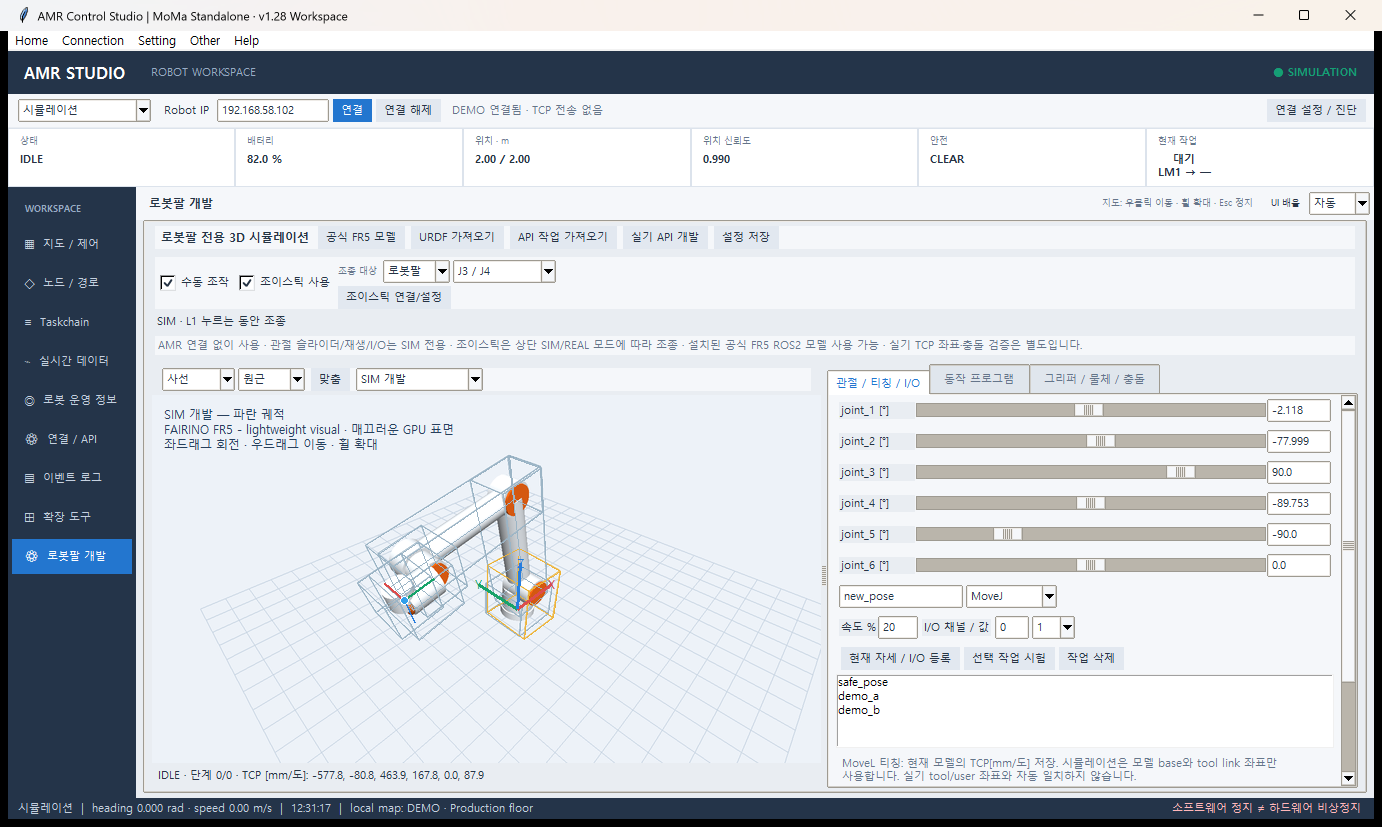
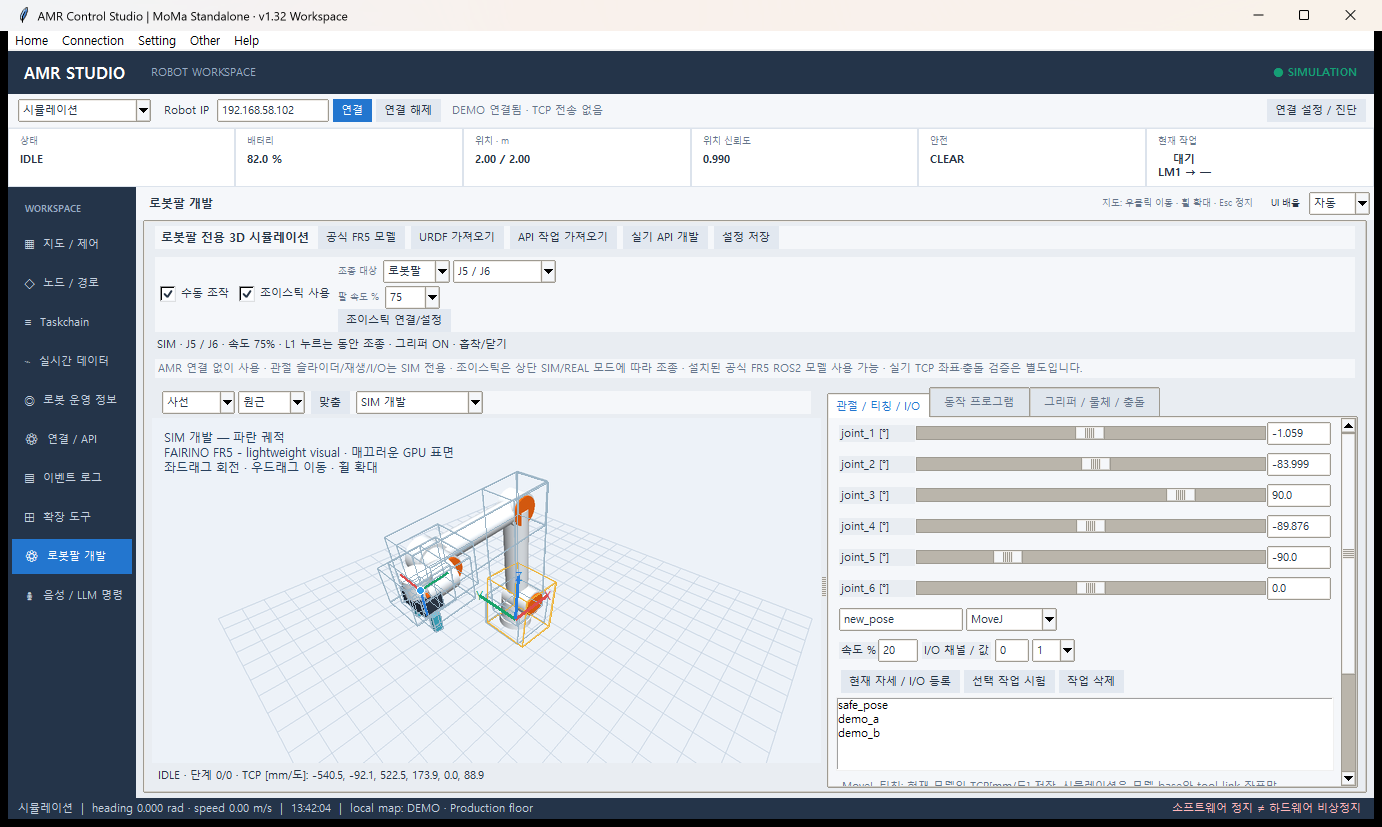
Add arm gamepad mode cycling speed buttons and registered gripper IO control

diff --git a/seer_control/gamepad_ui.py b/seer_control/gamepad_ui.py
@@ -7,7 +7,7 @@ import tkinter as tk
 from tkinter import ttk
 from .gamepad import WindowsPad,PadGate,AXES
 from .manual_safety import controller_manual_reason
-from .arm_gamepad import GROUPS,sim_jog,sdk_pulse
+from .arm_gamepad import GROUPS,sim_jog,sdk_pulse,BUTTONS,SPEEDS,ButtonEdges,step_group,step_speed
 from .theme import PANEL,MUTED,INK,BLUE
 
 
@@ -17,6 +17,7 @@ class GamepadMixin:
         self.pad_enabled=tk.BooleanVar(value=False)
         self.pad_config=dict(forward='Y',turn='X',deadman=4,stop=2,zone=.15,invert_forward=True,invert_turn=True)
         self.pad_sample=None;self.pad_arm_active=False;self.pad_arm_active_real=False;self.pad_arm_time=None
+        self.pad_arm_speed=tk.IntVar(value=50);self.pad_arm_edges=ButtonEdges();self.pad_arm_buttons=dict(BUTTONS);self.pad_grip_on=False;self.pad_tool_message=''
         self.pad_target=tk.StringVar(value='AMR');self.pad_arm_group=tk.StringVar(value='J1 / J2');self.pad_arm_real=tk.BooleanVar(value=False)
         tk.Checkbutton(body,text='DualSense 조이스틱 사용 (CFI-ZCT1G)',variable=self.pad_enabled,bg=PANEL,command=self._pad_toggle).pack(anchor='w',pady=(8,0))
         self._pad_mode_controls(body)
@@ -24,7 +25,7 @@ class GamepadMixin:
         self.pad_status.pack(fill='x',pady=3)
         row=tk.Frame(body,bg=PANEL);row.pack(fill='x')
         self.button(row,'컨트롤러 검색 / 설정',self._pad_dialog,BLUE).pack(side='left',fill='x',expand=True)
-        self.label(body,'L1: 누르는 동안 조종 · ○: 정지\nAMR: 전후진/회전 · 팔: 선택한 두 축 조절\n팔 SIM: 12°/s · TCP 30mm/s, 10°/s',8,MUTED,justify='left',wraplength=285).pack(fill='x',pady=4)
+        self.label(body,'L1: 누르는 동안 조종 · ○: 정지\nAMR: 전후진/회전 · 팔: 선택한 두 축 조절\n팔 R1/R2: 모드 ± · R3/L3: 속도 ±\n△: 그리퍼 ON/OFF (L1 함께 누름)',8,MUTED,justify='left',wraplength=285).pack(fill='x',pady=4)
 
     def _pad_mode_controls(self,body):
         row=tk.Frame(body,bg=PANEL);row.pack(fill='x',pady=3)
@@ -33,6 +34,9 @@ class GamepadMixin:
         target.bind('<<ComboboxSelected>>',lambda e:self._pad_toggle())
         group=ttk.Combobox(row,textvariable=self.pad_arm_group,values=list(GROUPS),state='readonly',width=13);group.pack(side='left')
         group.bind('<<ComboboxSelected>>',lambda e:self._pad_toggle())
+        speedrow=tk.Frame(body,bg=PANEL);speedrow.pack(fill='x')
+        self.label(speedrow,'팔 속도 %',8,MUTED).pack(side='left')
+        speed=ttk.Combobox(speedrow,textvariable=self.pad_arm_speed,values=SPEEDS,state='readonly',width=5);speed.pack(side='left',padx=4);speed.bind('<<ComboboxSelected>>',lambda e:self._pad_toggle())
 
     def _pad_arm_stop(self):
         self.pad_arm_time=None
@@ -53,7 +57,17 @@ class GamepadMixin:
             feedback=self.fr5_feedback;cfg=self.studio_config.get('arm',{});amr=self.current_state();speed=amr.get('speed')
             allowed=allowed and self.pad_arm_real.get() and self.connected and self.control_enabled and self.fr5_client.connected and cfg.get('verified') is True and cfg.get('version_confirmed') is True and bool(cfg.get('controller_version')) and now-self.fr5_rx<=2 and not controller_manual_reason(self.live,self.last_state,now) and type(speed) in (int,float) and math.isfinite(speed) and abs(speed)<.01 and feedback.get('status') not in ('ERROR','RUNNING','PAUSED') and not feedback.get('emergency') and not any(feedback.get('safety_stop',[])) and not any(feedback.get('errors',[]))
         else:allowed=allowed and self.sim_powered and not self.sim.route and not self.sim.state.stopped and self.sim.state.motor and self.arm_dev_sim.state not in ('RUNNING','PAUSED')
-        try:v,w,stop,status=self.pad_gate.evaluate(sample,now,allowed,**self.pad_config)
+        if not hasattr(self,'pad_arm_edges'):self.pad_arm_edges=ButtonEdges()
+        edges=self.pad_arm_edges.update(sample,now,allowed)
+        bindings=getattr(self,'pad_arm_buttons',BUTTONS)
+        stop_pressed=bool(sample and sample.buttons&(1<<self.pad_config['stop']))
+        changed=False
+        if not stop_pressed:
+            for up,down,current,step,var in [('mode_up','mode_down',self.pad_arm_group.get(),step_group,self.pad_arm_group),('speed_up','speed_down',self.pad_arm_speed.get() if hasattr(self,'pad_arm_speed') else 100,step_speed,getattr(self,'pad_arm_speed',None))]:
+                delta=int(bool(edges&(1<<bindings[up])))-int(bool(edges&(1<<bindings[down])))
+                if delta and var is not None:var.set(step(current,delta));changed=True
+        if changed:self._pad_arm_stop();self.pad_gate.reset()
+        try:v,w,stop,status=self.pad_gate.evaluate(sample,now,allowed,**{k:self.pad_config[k] for k in ('forward','turn','deadman','stop','zone','invert_forward','invert_turn')})
         except (ValueError,TypeError):self.pad_gate.reset();v=w=0.;stop=False;status='팔 조이스틱 입력 오류'
         if self.pad_enabled.get() and sample and 0<=now-sample.timestamp<=.25 and focus is not None and focus.winfo_toplevel()==self:
             stop=stop or bool(sample.buttons&(1<<self.pad_config['stop']))
@@ -61,6 +75,10 @@ class GamepadMixin:
             self.pad_enabled.set(False);self._pad_stop();self.action('stop')
             if self.real:self._fr5_priority_stop()
             else:self.arm_dev_sim.stop();self._aw_sync_main()
+        elif edges&(1<<bindings['gripper']) and allowed and self.pad_gate.armed and sample.buttons&(1<<self.pad_config['deadman']) and not v and not w and not changed:
+            self._pad_arm_stop()
+            try:self._pad_arm_gripper(now);status=self.pad_tool_message
+            except (ValueError,TypeError) as e:status=str(e)
         elif not v and not w:self._pad_arm_stop()
         else:
             try:
@@ -69,27 +87,53 @@ class GamepadMixin:
                     if hasattr(self,'arm_dev_display') and self.arm_dev_display.get()=='SIM 개발':self.arm_dev_display.set('실기 자세')
                     if not self.fr5_pending and feedback.get('motion_done')==1:
                         self.studio_arm_safe=False
-                        pulse=sdk_pulse(self.pad_arm_group.get(),v,w,now);cfg=copy.deepcopy(self.studio_config['arm'])
+                        pulse=sdk_pulse(self.pad_arm_group.get(),v,w,now,(self.pad_arm_speed.get() if hasattr(self,'pad_arm_speed') else 100)/100);cfg=copy.deepcopy(self.studio_config['arm'])
                         self._fr5_queue(lambda:self._arm_call(cfg,'jog',pulse));self.pad_arm_active=True;self.pad_arm_active_real=True
                     status='FR5 단일 축 제한 JOG · '+self.pad_arm_group.get()
                 else:
                     dt=.05 if self.pad_arm_time is None else min(.1,max(0,now-self.pad_arm_time))
-                    sim_jog(self.arm_dev_sim,self.pad_arm_group.get(),v,w,dt)
+                    scale=(self.pad_arm_speed.get() if hasattr(self,'pad_arm_speed') else 100)/100
+                    sim_jog(self.arm_dev_sim,self.pad_arm_group.get(),v,w,dt,12*scale,30*scale,10*scale)
                     self.pad_arm_time=now;self.pad_arm_active=True;self.pad_arm_active_real=False;self._aw_sync_main();self.arm_dev_canvas.render()
                     status='팔 SIM 조종 · '+self.pad_arm_group.get()
             except (ValueError,TypeError) as e:self._pad_arm_stop();self.pad_gate.reset();status=str(e)
         if not allowed and not stop:status='팔 조종 대기 · 수동/SIM 정지/팔 재생/실기 허용·수신 상태 확인'
+        status=self.pad_arm_group.get()+f" · 속도 {self.pad_arm_speed.get() if hasattr(self,'pad_arm_speed') else 100}% · "+status
+        if getattr(self,'pad_tool_message',''):status+=' · '+self.pad_tool_message
         identity=self.pad_device[1].name if self.pad_device else '미연결'
         raw=' · '.join(f'{k} {value:+.2f}' for k,value in sample.axes.items()) if sample else ''
         self.pad_status.configure(text=f'{identity} · {status}\n{raw}')
         if hasattr(self,'pad_arm_feedback'):self.pad_arm_feedback.set(('REAL · ' if self.real else 'SIM · ')+status)
         if getattr(self,'pad_input_label',None) and self.pad_input_label.winfo_exists():self.pad_input_label.configure(text=self.pad_status.cget('text'))
 
+    def _pad_arm_gripper(self,now):
+        if self.held:raise ValueError('AMR 수동 조작 해제 후 그리퍼를 조종하세요.')
+        if self.real:
+            if self.fr5_pending or self.fr5_feedback.get('motion_done')!=1:raise ValueError('FR5 정지 및 응답 대기')
+            value=not self.pad_grip_on;cfg=copy.deepcopy(self.studio_config['arm'])
+            key='gripper_on' if value else 'gripper_off';name=self.studio_config.get('gamepad',{}).get(key,'')
+            spec=cfg.get('operations',{}).get(name,{})
+            if spec.get('method') not in ('SetDO','SetToolDO') or spec.get('status')!=int(value):raise ValueError('컨트롤러 설정에서 REAL 그리퍼 ON/OFF 등록 I/O 작업을 지정하세요.')
+            other=self.studio_config.get('gamepad',{}).get('gripper_off' if value else 'gripper_on','');pair=cfg.get('operations',{}).get(other,{})
+            if pair.get('method')!=spec['method'] or pair.get('id')!=spec.get('id') or pair.get('status')!=int(not value):raise ValueError('REAL 그리퍼 ON/OFF는 같은 출력 채널의 반대 신호로 등록하세요.')
+            payload=dict(operation=name,expires=now+.15)
+            self._fr5_queue(lambda:self._arm_call(cfg,'pad_io',payload));self.pad_grip_on=value
+            self.pad_tool_message='그리퍼 '+('ON' if value else 'OFF')+' 요청 · 파지 확인은 DI 필요'
+        else:
+            c=self.arm_dev_sim.physics.config
+            if c['kind']=='none':raise ValueError('로봇팔 그리퍼 / 물체 / 충돌에서 도구를 먼저 선택하세요.')
+            value=not bool(self.arm_dev_sim.io[c['do_bank']].get(c['do_channel'],0))
+            self._aps_io(int(value));self._aw_sync_main();self.arm_dev_canvas.render()
+            self.pad_tool_message=('진공' if c['kind']=='vacuum' else '그리퍼')+(' ON · 흡착/닫기' if value else ' OFF · 해제/열기')
+
     def _pad_start(self):
         devices=self.pad_backend.devices()
         sony=[device for device in devices if (device[1].manufacturer,device[1].product)==(0x054c,0x0ce6)]
         if len(sony)==1:self.pad_device=sony[0]
         saved=self.studio_config.get('gamepad',{})
+        for key in BUTTONS:
+            value=saved.get('arm_'+key)
+            if type(value) is int and 0<=value<32:self.pad_arm_buttons[key]=value
         if isinstance(saved,dict):
             for k in self.pad_config:
                 value=saved.get(k)
@@ -100,6 +144,7 @@ class GamepadMixin:
         self.pad_after=self.after(50,self._pad_poll)
 
     def _pad_toggle(self):
+        self.pad_arm_edges=ButtonEdges()
         self._pad_stop();self.release_drive();self.pad_gate.reset()
 
     def _pad_stop(self):
@@ -125,7 +170,7 @@ class GamepadMixin:
                  self.tabs.select()==str(self.operation_page) and focus is not None and focus.winfo_toplevel()==self and
                  not self.reloc_mode and not self.task_running and not self.studio_runner.active and self.studio_arm_safe)
         allowed=allowed and (not self.real and self.sim_powered or self.real and self.control_enabled and now-self.last_state<=3 and not controller_manual_reason(self.live,self.last_state,now))
-        try:v,w,stop,status=self.pad_gate.evaluate(sample,now,allowed,**self.pad_config)
+        try:v,w,stop,status=self.pad_gate.evaluate(sample,now,allowed,**{k:self.pad_config[k] for k in ('forward','turn','deadman','stop','zone','invert_forward','invert_turn')})
         except (ValueError,TypeError):
             self.pad_gate.reset();v,w,stop,status=0.,0.,False,'컨트롤러 입력 오류'
         if self.pad_enabled.get() and sample and 0<=now-sample.timestamp<=.25 and focus is not None and focus.winfo_toplevel()==self:
@@ -161,34 +206,54 @@ class GamepadMixin:
 
     def _pad_dialog(self):
         self._pad_stop();self.pad_gate.reset()
-        win=tk.Toplevel(self);win.title('DualSense CFI-ZCT1G · 입력 / 설정');self._fit_dialog(win,720,550,620,460);win.configure(bg=PANEL)
+        win=tk.Toplevel(self);win.title('DualSense CFI-ZCT1G · 입력 / 설정');self._fit_dialog(win,760,740,620,460);win.configure(bg=PANEL)
+        holder,inner,_=self._scrollable_frame(win,bg=PANEL);holder.pack(fill='both',expand=True)
         devices=self.pad_backend.devices()
         names=[f'{index}: {caps.name} · VID {caps.manufacturer:04X} / PID {caps.product:04X}' for index,caps in devices]
         selected=tk.StringVar(value=names[0] if names else '')
-        self.label(win,'USB 또는 Bluetooth로 연결한 뒤 장치를 선택하세요.',11,INK,True).pack(anchor='w',padx=12,pady=10)
-        ttk.Combobox(win,textvariable=selected,values=names,state='readonly',width=70).pack(fill='x',padx=12)
+        self.label(inner,'USB 또는 Bluetooth로 연결한 뒤 장치를 선택하세요.',11,INK,True).pack(anchor='w',padx=12,pady=10)
+        ttk.Combobox(inner,textvariable=selected,values=names,state='readonly',width=70).pack(fill='x',padx=12)
         def choose():
             self._pad_stop();self.pad_gate.reset();self.pad_enabled.set(False)
             self.pad_device=devices[names.index(selected.get())] if selected.get() in names else None
-        self.button(win,'선택한 컨트롤러 연결',choose,BLUE).pack(anchor='w',padx=12,pady=5)
-        self.pad_input_label=self.label(win,'장치 선택 후 스틱/버튼의 입력 번호를 확인하세요.',9,MUTED,justify='left');self.pad_input_label.pack(fill='x',padx=12,pady=5)
+        self.button(inner,'선택한 컨트롤러 연결',choose,BLUE).pack(anchor='w',padx=12,pady=5)
+        self.pad_input_label=self.label(inner,'장치 선택 후 스틱/버튼의 입력 번호를 확인하세요.',9,MUTED,justify='left');self.pad_input_label.pack(fill='x',padx=12,pady=5)
         variables={}
+        self.label(inner,'팔: R1 다음 모드 / R2 이전 모드 · R3 속도↑ / L3 속도↓ · △ 그리퍼',9,INK).pack(anchor='w',padx=12)
+        button_vars={}
+        for key,title in [('mode_up','모드 다음 R1'),('mode_down','모드 이전 R2'),('speed_up','속도 증가 R3'),('speed_down','속도 감소 L3'),('gripper','그리퍼 토글')]:
+            row=tk.Frame(inner,bg=PANEL);row.pack(fill='x',padx=12,pady=2)
+            self.label(row,title,9,INK,width=25,anchor='w').pack(side='left')
+            button_vars[key]=tk.IntVar(value=self.pad_arm_buttons[key]+1)
+            ttk.Combobox(row,textvariable=button_vars[key],values=tuple(range(1,33)),state='readonly',width=8).pack(side='left')
+        self.label(inner,'그리퍼: 기본 △=4번 / ×=2번 / □=1번. 장치 입력 번호 확인 후 변경 가능',8,MUTED).pack(anchor='w',padx=12)
+        tool_vars={}
+        operations=self.studio_config.get('arm',{}).get('operations',{})
+        for key,status in [('gripper_on',1),('gripper_off',0)]:
+            row=tk.Frame(inner,bg=PANEL);row.pack(fill='x',padx=12,pady=2);self.label(row,'REAL '+key,9,INK,width=25,anchor='w').pack(side='left')
+            tool_vars[key]=tk.StringVar(value=self.studio_config.get('gamepad',{}).get(key,''))
+            names=['']+[n for n,spec in operations.items() if spec.get('method') in ('SetDO','SetToolDO') and spec.get('status')==status]
+            ttk.Combobox(row,textvariable=tool_vars[key],values=names,state='readonly',width=25).pack(side='left')
         for key,title,values in (('forward','전후진 축',AXES),('turn','회전 축',AXES),('deadman','주행 허용 L1 버튼 번호',tuple(range(1,33))),('stop','정지 ○ 버튼 번호',tuple(range(1,33)))):
-            row=tk.Frame(win,bg=PANEL);row.pack(fill='x',padx=12,pady=3)
+            row=tk.Frame(inner,bg=PANEL);row.pack(fill='x',padx=12,pady=3)
             value=self.pad_config[key]+1 if key in ('deadman','stop') else self.pad_config[key]
             variables[key]=tk.StringVar(value=str(value));self.label(row,title,9,INK,width=25,anchor='w').pack(side='left')
             ttk.Combobox(row,textvariable=variables[key],values=values,state='readonly',width=8).pack(side='left')
-        row=tk.Frame(win,bg=PANEL);row.pack(fill='x',padx=12,pady=4)
+        row=tk.Frame(inner,bg=PANEL);row.pack(fill='x',padx=12,pady=4)
         variables['zone']=tk.StringVar(value=str(self.pad_config['zone']));self.label(row,'데드존 (0~0.5)',9,INK,width=25,anchor='w').pack(side='left');ttk.Entry(row,textvariable=variables['zone'],width=9).pack(side='left')
         for key,title in (('invert_forward','전후진 축 반전'),('invert_turn','회전 축 반전')):
-            variables[key]=tk.BooleanVar(value=self.pad_config[key]);tk.Checkbutton(win,text=title,variable=variables[key],bg=PANEL).pack(anchor='w',padx=12)
+            variables[key]=tk.BooleanVar(value=self.pad_config[key]);tk.Checkbutton(inner,text=title,variable=variables[key],bg=PANEL).pack(anchor='w',padx=12)
         def apply():
             config={k:v.get() for k,v in variables.items()};config['zone']=float(config['zone'])
             config['deadman']=int(config['deadman'])-1;config['stop']=int(config['stop'])-1
             if not 0<=config['zone']<=.5 or config['forward']==config['turn'] or config['deadman']==config['stop']:raise ValueError('축은 서로 다르게, 허용/정지 버튼도 다르게 설정하세요.')
-            self._pad_stop();self.pad_gate.reset();self.pad_config=config
-            self.studio_config['gamepad']=config;self._studio_save_settings();win.destroy()
-        self.label(win,'설정 중에는 주행하지 않습니다. 창을 닫고 수동 조작 + 조이스틱 사용을 켠 뒤\n스틱 중앙에서 L1을 놓았다가 다시 누르세요. 재연결 시 다시 활성화해야 합니다.',9,MUTED,justify='left').pack(fill='x',padx=12,pady=7)
-        tk.Checkbutton(win,text='이번 실행에서 FR5 실기 조이스틱 JOG 허용 (연결/버전/동작 허용 필요)',variable=self.pad_arm_real,bg=PANEL,command=self._pad_toggle).pack(anchor='w',padx=12)
-        self.button(win,'적용 / 저장',lambda:self.guarded(apply),BLUE).pack(pady=4)
+            buttons={k:v.get()-1 for k,v in button_vars.items()}
+            used=[config['deadman'],config['stop']]+list(buttons.values())
+            if len(set(used))!=len(used):raise ValueError('허용/정지/팔 기능 버튼은 서로 다르게 설정하세요.')
+            self._pad_stop();self.pad_gate.reset();self.pad_arm_edges=ButtonEdges();self.pad_config=config;self.pad_arm_buttons=buttons
+            saved=dict(config,**{'arm_'+k:v for k,v in buttons.items()},**{k:v.get() for k,v in tool_vars.items()})
+            self.studio_config['gamepad']=saved;self._studio_save_settings();win.destroy()
+        self.label(inner,'설정 중에는 주행하지 않습니다. 창을 닫고 수동 조작 + 조이스틱 사용을 켠 뒤\n스틱 중앙에서 L1을 놓았다가 다시 누르세요. 재연결 시 다시 활성화해야 합니다.',9,MUTED,justify='left').pack(fill='x',padx=12,pady=7)
+        tk.Checkbutton(inner,text='이번 실행에서 FR5 실기 조이스틱 JOG 허용 (연결/버전/동작 허용 필요)',variable=self.pad_arm_real,bg=PANEL,command=self._pad_toggle).pack(anchor='w',padx=12)
+        self.button(inner,'적용 / 저장',lambda:self.guarded(apply),BLUE).pack(pady=4)
         return win

diff --git a/tests/test_arm_gamepad.py b/tests/test_arm_gamepad.py
@@ -2,7 +2,7 @@ import math,time,unittest
 from pathlib import Path
 from types import SimpleNamespace
 from unittest.mock import Mock,patch
-from seer_control.arm_gamepad import sim_jog,sdk_pulse
+from seer_control.arm_gamepad import sim_jog,sdk_pulse,ButtonEdges,step_group,step_speed
 from seer_control.arm_simulation import ArmSimulator
 from seer_control.geometry3d import RobotDescription
 from seer_control.fairino_api import SDKEngine
@@ -72,3 +72,30 @@ class ArmPadTests(unittest.TestCase):
    self.assertEqual(h.arm_dev_sim.q,before);h._arm_call.assert_not_called()
    if failure:h._fr5_queue.assert_not_called()
    else:h._fr5_queue.assert_called_once()
+
+ def test_mode_wrap_and_speed_clamp(self):
+  self.assertEqual(step_group('J1 / J2',-1),'TCP RX / RY')
+  self.assertEqual(step_speed(100,1),100);self.assertEqual(step_speed(10,-1),10)
+ def test_edges_no_repeat_stale_or_hotplug(self):
+  edges=ButtonEdges();sample=Sample(dict(X=0,Y=0),32,10,('sony',))
+  self.assertEqual(edges.update(sample,10,True),0)
+  sample.buttons=0;edges.update(sample,10,True);sample.buttons=32
+  self.assertEqual(edges.update(sample,10,True),32);self.assertEqual(edges.update(sample,10,True),0)
+  self.assertEqual(edges.update(sample,11,True),0);self.assertEqual(edges.update(sample,10,True),0)
+ def test_mode_button_rearms_before_motion(self):
+  h=Harness();h.pad_arm_speed=Value(50);h._pad_process(h.sample(10),10)
+  s=h.sample(10.05,1,1,True);s.buttons|=32;before=list(h.arm_dev_sim.q);h._pad_process(s,10.05)
+  self.assertEqual(h.pad_arm_group.get(),'J3 / J4');self.assertEqual(h.arm_dev_sim.q,before)
+  h._pad_process(s,10.1);self.assertEqual(h.pad_arm_group.get(),'J3 / J4')
+ def test_speed_scales_real_distance_and_velocity(self):
+  p=sdk_pulse('J1 / J2',1,0,10,.1);self.assertAlmostEqual(p['distance'],.02);self.assertAlmostEqual(p['vel'],.5)
+ def test_sim_gripper_requires_neutral_deadman_and_edge(self):
+  h=Harness();h.pad_arm_speed=Value(50);h.pad_tool_message='';h.arm_dev_sim.physics.configure(dict(kind='finger'));h._aps_io=Mock()
+  h._pad_process(h.sample(10),10);s=h.sample(10.05,held=True);s.buttons|=8;h._pad_process(s,10.05)
+  h._aps_io.assert_called_once_with(1);h._pad_process(s,10.1);h._aps_io.assert_called_once()
+  h._aps_io.reset_mock();s.buttons=0;h._pad_process(s,10.15);s.buttons=8;h._pad_process(s,10.2);h._aps_io.assert_not_called()
+ def test_stale_real_gripper_never_sets_output(self):
+  r=FakeRobot();r.SetToolDO=Mock(return_value=0);cfg=config();cfg['operations']['grip']={'method':'SetToolDO','id':0,'status':1};e=SDKEngine(cfg,r)
+  with patch('seer_control.fairino_api.time.monotonic',return_value=11):
+   with self.assertRaises(ValueError):e.call('pad_io',dict(operation='grip',expires=10.15))
+  r.SetToolDO.assert_not_called()

diff --git a/seer_control/fairino_api.py b/seer_control/fairino_api.py
@@ -111,13 +111,15 @@ class SDKEngine:
                     joints_rad=[math.radians(v) for v in joints],tcp_mm_deg=tcp,
                     motion_done=done,emergency=bool(emergency),safety_stop=list(safety),errors=list(errors))
 
-    def execute(self,operation):
+    def execute(self,operation,expires=None):
         validate(self.config,True)
         if operation not in self.config['operations']:raise ValueError('등록되지 않은 FR5 작업: '+str(operation))
         state=self.status()
         if state['status'] in ('ERROR','RUNNING','PAUSED') or state['motion_done']!=1:
             raise ValueError('FR5 정지 및 오류 해제를 먼저 확인하세요.')
         spec=self.config['operations'][operation];method=spec['method']
+        if expires is not None:
+            if method not in ('SetDO','SetToolDO') or not 0<=float(expires)-time.monotonic()<=.25:raise ValueError('그리퍼 입력 유효시간/작업 오류')
         if method in ('SetDO','SetToolDO','WaitDI','WaitToolDI'):
             # DO acceptance is not a grip confirmation: add a WaitDI step for the sensor.
             if method.startswith('Set'):
@@ -156,6 +158,9 @@ class SDKEngine:
         if kind=='status':return self.status()
         if kind=='execute':return self.execute(operation)
         if kind=='jog':return self.jog(operation)
+        if kind=='pad_io':
+            if not isinstance(operation,dict):raise ValueError('그리퍼 입력 오류')
+            return self.execute(operation.get('operation'),operation.get('expires',0))
         if kind in ('pause','resume','stop'):
             checked(getattr(self.robot,{'pause':'PauseMotion','resume':'ResumeMotion','stop':'StopMotion'}[kind])(),kind)
             if kind=='stop':self.canceled=True

diff --git a/seer_control/arm_gamepad.py b/seer_control/arm_gamepad.py
@@ -20,7 +20,24 @@ def sim_jog(sim,group,v,w,dt,joint_speed=12.,linear_speed=30.,angular_speed=10.)
   q=sim.kin.ik(pose,sim.q)
  sim.set_joints(q)
  return q
-def sdk_pulse(group,v,w,now):
+def sdk_pulse(group,v,w,now,scale=1.):
+ if not math.isfinite(scale) or not .1<=scale<=1:raise ValueError("팔 속도 비율 오류")
  ref,values=axes(group,v,w);index,value=max(values,key=lambda item:abs(item[1]))
  if abs(value)<1e-9:return None
- return dict(ref=ref,axis=index+1,direction=int(value>0),distance=(.3 if ref==2 and index<3 else .2)*abs(value),vel=max(.5,5*abs(value)),expires=now+.15)
+ return dict(ref=ref,axis=index+1,direction=int(value>0),distance=(.3 if ref==2 and index<3 else .2)*abs(value)*scale,vel=max(.05,5*abs(value)*scale),expires=now+.15)
+
+
+BUTTONS=dict(mode_up=5,mode_down=7,speed_up=11,speed_down=10,gripper=3)
+SPEEDS=(10,25,50,75,100)
+class ButtonEdges:
+ def __init__(self):self.identity=None;self.previous=0
+ def update(self,sample,now,allowed):
+  if not sample or not allowed or not 0<=now-sample.timestamp<=.25:
+   self.identity=None;self.previous=0;return 0
+  if self.identity!=sample.identity:self.identity=sample.identity;self.previous=sample.buttons;return 0
+  edges=sample.buttons&~self.previous;self.previous=sample.buttons;return edges
+
+def step_group(group,delta):
+ names=list(GROUPS);return names[(names.index(group)+delta)%len(names)]
+def step_speed(speed,delta):
+ index=min(range(len(SPEEDS)),key=lambda i:abs(SPEEDS[i]-speed));return SPEEDS[max(0,min(len(SPEEDS)-1,index+delta))]

diff --git a/tools/arm_gamepad_smoke.py b/tools/arm_gamepad_smoke.py
@@ -21,6 +21,10 @@ with tempfile.TemporaryDirectory() as folder:
   assert app.sim.arm['joint_positions']==app.arm_dev_sim.kin.positions(app.arm_dev_sim.q)
   q=list(app.arm_dev_sim.q);app._pad_process(sample(1,.3,False),time.monotonic());assert app.arm_dev_sim.q==q and not app.pad_arm_active
   app.pad_arm_group.set('J3 / J4');app._pad_toggle();app._pad_process(sample(),time.monotonic());app._pad_process(sample(.5,0,True),time.monotonic());assert app.arm_dev_sim.q[3]!=q[3]
+  app._pad_process(sample(),time.monotonic())
+  mode=sample();mode.buttons=32;app._pad_process(mode,time.monotonic());assert app.pad_arm_group.get()=='J5 / J6'
+  app._pad_process(sample(),time.monotonic());speed=sample();speed.buttons=2048;app._pad_process(speed,time.monotonic());assert app.pad_arm_speed.get()==75
+  app._pad_process(sample(),time.monotonic());app.arm_dev_sim.physics.configure(dict(kind='finger'));grip=sample(held=True);grip.buttons|=8;app._pad_process(grip,time.monotonic());assert app.arm_dev_sim.io['ToolDO'][0]==1
   app._pad_process(sample(),time.monotonic());app.update();capture_window(app,Path('artifacts/arm_gamepad_workspace.png'))
   app.pad_target.set('AMR');app._pad_toggle();assert not app.pad_gate.armed
   app._arm_call.assert_not_called();assert not errors,errors

diff --git a/seer_control/arm_workspace.py b/seer_control/arm_workspace.py
@@ -108,7 +108,7 @@ class ArmWorkspaceMixin(ArmSceneMixin):
   tk.Checkbutton(padrow,text='조이스틱 사용',variable=self.pad_enabled,bg=PANEL,command=self._pad_toggle).pack(side='left')
   self._pad_mode_controls(padrow)
   self.button(padrow,'조이스틱 연결/설정',self._pad_dialog).pack(side='left',padx=3)
-  self.pad_arm_feedback=tk.StringVar(value='L1 누르는 동안 조종 · ○ 정지 · 대상/축 변경 후 스틱 중앙에서 재시작')
+  self.pad_arm_feedback=tk.StringVar(value='L1 조종 · ○ 정지 · R1/R2 모드 ± · R3/L3 속도 ± · △ 그리퍼 (버튼 변경 가능)')
   ttk.Label(page,textvariable=self.pad_arm_feedback,wraplength=1100).pack(fill='x',padx=12)
   for title,fn in [('공식 FR5 모델',self._aw_official_model),('URDF 가져오기',self._aw_load_urdf),('API 작업 가져오기',self._aw_copy_api),('실기 API 개발',self._fr5_development),('설정 저장',self._aw_save)]:self.button(row,title,lambda f=fn:self.guarded(f)).pack(side='left',padx=3)
   self._studio_note(page,'AMR 연결 없이 사용 · 관절 슬라이더/재생/I/O는 SIM 전용 · 조이스틱은 상단 SIM/REAL 모드에 따라 조종 · 설치된 공식 FR5 ROS2 모델 사용 가능 · 실기 TCP 좌표·충돌 검증은 별도입니다.')

diff --git a/seer_control/app.py b/seer_control/app.py
@@ -56,7 +56,7 @@ def _shape_summary(value, depth=0):
 class Console(UIScaleMixin, VoiceMixin, GamepadMixin, SpatialMixin, StudioMixin, tk.Tk):
     def __init__(self):
         super().__init__()
-        self.title('AMR Control Studio | MoMa Standalone · v1.31 Workspace')
+        self.title('AMR Control Studio | MoMa Standalone · v1.32 Workspace')
         # Responsive startup size: fit the active monitor instead of assuming one fixed resolution.
         sw=self.winfo_screenwidth(); sh=self.winfo_screenheight()
         start_w=min(1600,int(sw*.94))

diff --git a/tools/package_release.py b/tools/package_release.py
@@ -18,7 +18,7 @@ def release_files():
 
 def main():
     target=ROOT.parent/'release';target.mkdir(exist_ok=True)
-    archive=target/'MOMA_AMR_Control_Studio_v1.31_2026-10-05_source.zip'
+    archive=target/'MOMA_AMR_Control_Studio_v1.32_2026-10-05_source.zip'
     with zipfile.ZipFile(archive,'w',compression=zipfile.ZIP_DEFLATED,compresslevel=9) as output:
         for path in release_files():
             info=zipfile.ZipInfo('MOMA/'+path.relative_to(ROOT).as_posix(),date_time=(2026,10,5,0,0,0))

diff --git a/docs/ARM_GAMEPAD_KO.md b/docs/ARM_GAMEPAD_KO.md
@@ -16,3 +16,12 @@ FAIRINO 공식 `StartJOG(ref, nb, dir, max_dis, vel, acc)`와 `ImmStopJOG()`를 
 실기 조종 중 팔 표시가 SIM 개발이었다면 실기 수신 자세로 전환합니다. 실제 수신 자세는 SIM 관절값을 덮어쓰지 않습니다. SIM 충돌 장면이 실기 안전 기능을 대신하지 않습니다. 실기는 공식 제어기 안전 기능을 사용하며 실제 하드웨어 검증은 아직 수행하지 않았습니다.
 
 공식 API 근거: [FAIRINO Python Movement](https://fairino-doc-en.readthedocs.io/3.8.0/SDKManual/PythonRobotMovement.html).
+
+## v1.32 버튼 조작
+
+- R1: 다음 모드 / R2: 이전 모드. J1/J2 → J3/J4 → J5/J6 → TCP X/Y → TCP Z/RZ → TCP RX/RY 순환.
+- R3 클릭: 속도 증가 / L3 클릭: 감소. 10, 25, 50, 75, 100%. 초기값 50%. SIM 최대 12°/s, 30mm/s, 10°/s 및 실기 최대 SDK vel 5%에 대한 비율입니다.
+- 기본 △: 그리퍼 ON/OFF. L1을 함께 누르고 스틱은 중앙. 2지 도구 닫기/열기, 진공 도구 흡착/해제. 도구는 기존 그리퍼 설정에서 선택. 파지/흡착 물리량과 DI는 기존 시뮬레이터로 동작.
+- 모드/속도 변경 시 JOG를 중단하며 L1을 놓고 스틱 중앙에서 다시 시작합니다. 버튼을 계속 눌러도 한 번만 처리.
+- 설정 창에서 기능별 입력 버튼 번호 변경 가능. 기본 △=4번, ×=2번, □=1번이며 USB/Bluetooth/드라이버 입력 번호를 확인합니다. 설정 화면은 스크롤 가능.
+- REAL 그리퍼 ON/OFF는 실제 배선에 맞춰 등록한 SetToolDO 또는 SetDO 작업을 선택해야 합니다. 같은 채널의 1/0 작업만 허용. 실기 허용/정지/최신 상태 조건 유지, 대기열 만료 명령은 출력하지 않음. ON 요청은 파지 성공을 뜻하지 않으며 DI 확인 필요. 실제 로봇 검증은 미수행.

diff --git a/README.md b/README.md
@@ -6,7 +6,7 @@ Automatic obstacle mode estimates motion from SIM world-position history, with d
 
 Dynamic actors now support ordered waypoint lists. AMR actors follow existing map nodes and directed lane geometry, including curves; people follow coordinate waypoints. Both support ping-pong and cyclic motion, editable order and waypoint dwell.
 
-MoMa development code — SEER AMR Control Studio v1.31 Workspace.
+MoMa development code — SEER AMR Control Studio v1.32 Workspace.
 
 SIM 우회는 장애물 뒤의 가까운 안전 지점에서 기존 직선·곡선 경로에 복귀합니다. 화면 상단 **UI 배율**에서 자동 또는 65~115%를 선택할 수 있으며, 작은 화면의 제어 패널은 버튼 위에서도 마우스 휠로 스크롤할 수 있습니다.
 

diff --git a/RELEASE_NOTES_KO.md b/RELEASE_NOTES_KO.md
@@ -1,6 +1,7 @@
-# v1.31 음성 / LLM 실시간 지도
+# v1.32 로봇팔 조이스틱 버튼
 
-- 음성 명령과 지도를 좌우로 동시에 표시. 경계 드래그로 크기 조절.
-- 현재 위치, 직전 노드, 목표 및 미션 결과를 250ms 주기로 갱신.
-- 파랑 계획 경로 및 초록 SIM 실제 주행/우회 경로 표시.
-- 지도 맞춤, 휠 확대, 우클릭 이동. REAL 수신 지연 표시.
+- R1/R2로 6종 관절/TCP 조종 모드 순환.
+- R3/L3로 속도 10~100% 단계 조절, 초기값 50%.
+- △ 그리퍼/진공 ON/OFF. ×/□ 등 기능 버튼 번호 변경 가능.
+- 현재 모드/속도/그리퍼 요청 상태 표시.
+- REAL 등록 I/O 작업 매핑 및 입력 만료 검증. 실제 로봇 검증 미수행.
